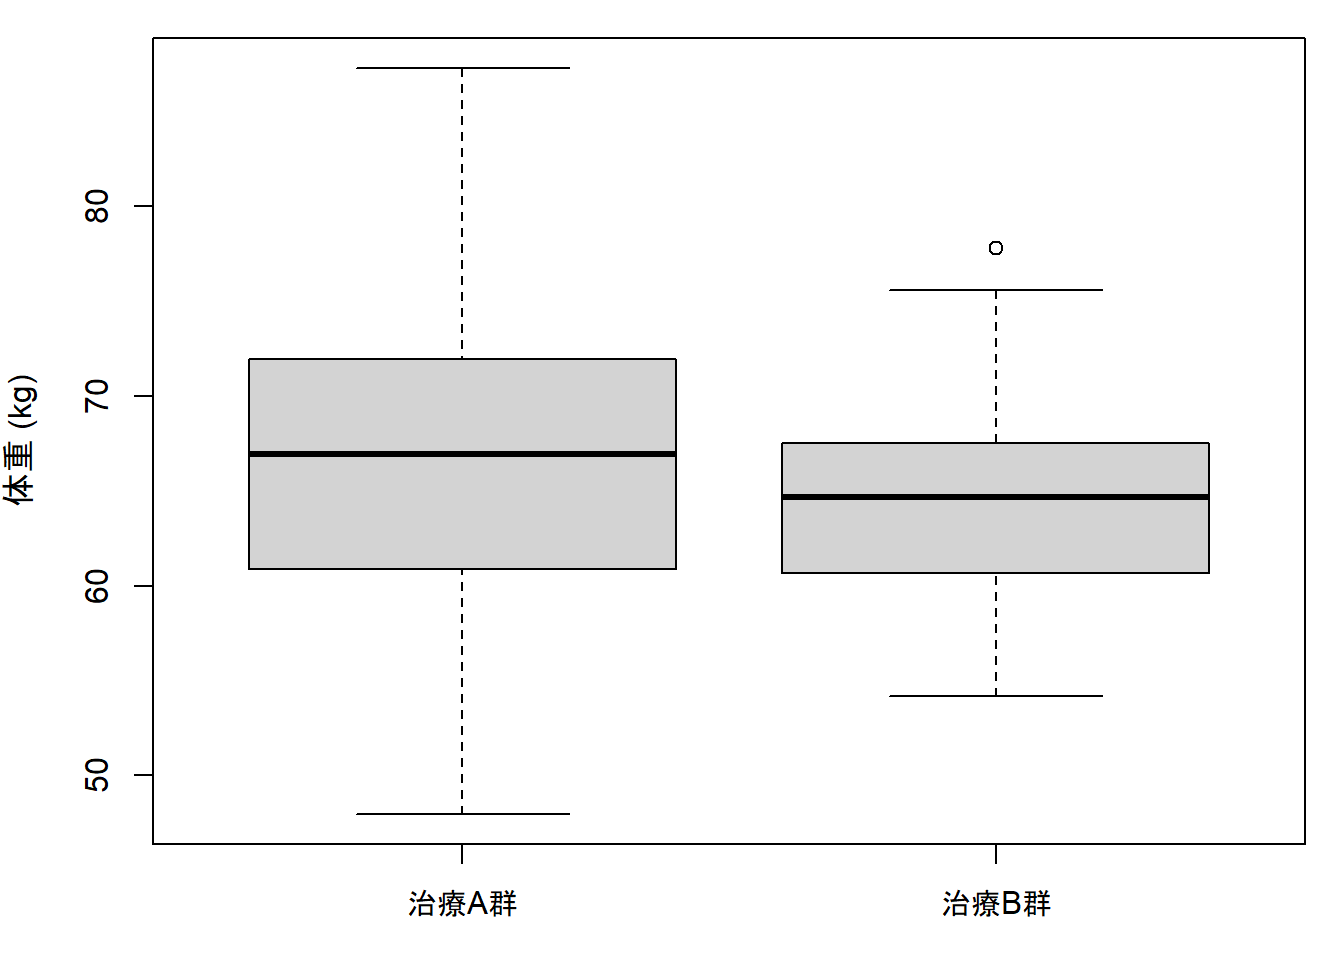
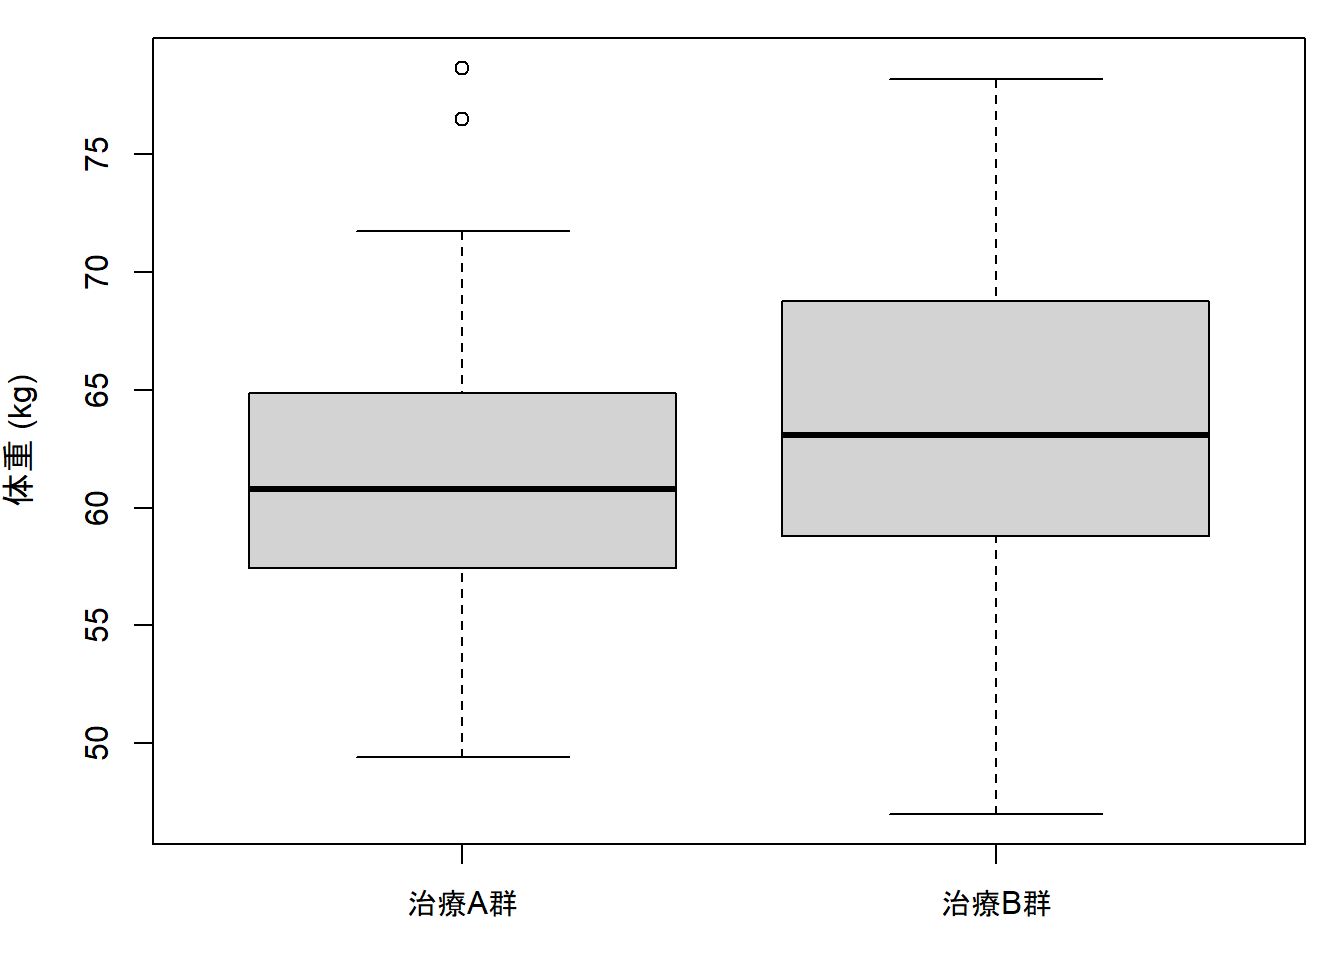
Built site for gh-pages

diff --git a/posts/data/index.html b/posts/data/index.html
@@ -186,6 +186,8 @@ ul.task-list li input[type="checkbox"] {
    
   <ul>
   <li><a href="#コンピュータ演習2" id="toc-コンピュータ演習2" class="nav-link active" data-scroll-target="#コンピュータ演習2">コンピュータ演習2</a></li>
+  <li><a href="#コンピュータ演習3" id="toc-コンピュータ演習3" class="nav-link" data-scroll-target="#コンピュータ演習3">コンピュータ演習3</a></li>
+  <li><a href="#コンピュータ演習4" id="toc-コンピュータ演習4" class="nav-link" data-scroll-target="#コンピュータ演習4">コンピュータ演習4</a></li>
   </ul>
 </nav>
     </div>
@@ -201,14 +203,30 @@ ul.task-list li input[type="checkbox"] {
 <p>データファイル：<a href="./2群の血圧変化量の差.xlsx">2群の血圧変化量の差.xlsx</a></p>
 <div class="cell">
 <div class="cell-output-display">
-<div class="datatables html-widget html-fill-item" id="htmlwidget-c629715e28ba50dc85ac" style="width:100%;height:auto;"></div>
-<script type="application/json" data-for="htmlwidget-c629715e28ba50dc85ac">{"x":{"filter":"top","vertical":false,"filterHTML":"<tr>\n  <td><\/td>\n  <td data-type=\"character\" style=\"vertical-align: top;\">\n    <div class=\"form-group has-feedback\" style=\"margin-bottom: auto;\">\n      <input type=\"search\" placeholder=\"All\" class=\"form-control\" style=\"width: 100%;\"/>\n      <span class=\"glyphicon glyphicon-remove-circle form-control-feedback\"><\/span>\n    <\/div>\n  <\/td>\n  <td data-type=\"character\" style=\"vertical-align: top;\">\n    <div class=\"form-group has-feedback\" style=\"margin-bottom: auto;\">\n      <input type=\"search\" placeholder=\"All\" class=\"form-control\" style=\"width: 100%;\"/>\n      <span class=\"glyphicon glyphicon-remove-circle form-control-feedback\"><\/span>\n    <\/div>\n  <\/td>\n  <td data-type=\"number\" style=\"vertical-align: top;\">\n    <div class=\"form-group has-feedback\" style=\"margin-bottom: auto;\">\n      <input type=\"search\" placeholder=\"All\" class=\"form-control\" style=\"width: 100%;\"/>\n      <span class=\"glyphicon glyphicon-remove-circle form-control-feedback\"><\/span>\n    <\/div>\n    <div style=\"display: none;position: absolute;width: 200px;opacity: 1\">\n      <div data-min=\"-6\" data-max=\"2\"><\/div>\n      <span style=\"float: left;\"><\/span>\n      <span style=\"float: right;\"><\/span>\n    <\/div>\n  <\/td>\n<\/tr>","data":[["1","2","3","4","5","6","7","8","9"],["I1","I2","I3","I4","I5","C1","C2","C3","C4"],["介入群","介入群","介入群","介入群","介入群","対照群","対照群","対照群","対照群"],[-2,-6,-3,-1,-5,2,-1,0,-2]],"container":"<table class=\"display\">\n  <thead>\n    <tr>\n      <th> <\/th>\n      <th>id<\/th>\n      <th>group<\/th>\n      <th>delta<\/th>\n    <\/tr>\n  <\/thead>\n<\/table>","options":{"pageLength":5,"autoWidth":true,"columnDefs":[{"className":"dt-right","targets":3},{"orderable":false,"targets":0},{"name":" ","targets":0},{"name":"id","targets":1},{"name":"group","targets":2},{"name":"delta","targets":3}],"order":[],"orderClasses":false,"orderCellsTop":true,"lengthMenu":[5,10,25,50,100]}},"evals":[],"jsHooks":[]}</script>
+<div class="datatables html-widget html-fill-item" id="htmlwidget-681cce1bd1fee921a76f" style="width:100%;height:auto;"></div>
+<script type="application/json" data-for="htmlwidget-681cce1bd1fee921a76f">{"x":{"filter":"top","vertical":false,"filterHTML":"<tr>\n  <td><\/td>\n  <td data-type=\"character\" style=\"vertical-align: top;\">\n    <div class=\"form-group has-feedback\" style=\"margin-bottom: auto;\">\n      <input type=\"search\" placeholder=\"All\" class=\"form-control\" style=\"width: 100%;\"/>\n      <span class=\"glyphicon glyphicon-remove-circle form-control-feedback\"><\/span>\n    <\/div>\n  <\/td>\n  <td data-type=\"character\" style=\"vertical-align: top;\">\n    <div class=\"form-group has-feedback\" style=\"margin-bottom: auto;\">\n      <input type=\"search\" placeholder=\"All\" class=\"form-control\" style=\"width: 100%;\"/>\n      <span class=\"glyphicon glyphicon-remove-circle form-control-feedback\"><\/span>\n    <\/div>\n  <\/td>\n  <td data-type=\"number\" style=\"vertical-align: top;\">\n    <div class=\"form-group has-feedback\" style=\"margin-bottom: auto;\">\n      <input type=\"search\" placeholder=\"All\" class=\"form-control\" style=\"width: 100%;\"/>\n      <span class=\"glyphicon glyphicon-remove-circle form-control-feedback\"><\/span>\n    <\/div>\n    <div style=\"display: none;position: absolute;width: 200px;opacity: 1\">\n      <div data-min=\"-6\" data-max=\"2\"><\/div>\n      <span style=\"float: left;\"><\/span>\n      <span style=\"float: right;\"><\/span>\n    <\/div>\n  <\/td>\n<\/tr>","data":[["1","2","3","4","5","6","7","8","9"],["I1","I2","I3","I4","I5","C1","C2","C3","C4"],["介入群","介入群","介入群","介入群","介入群","対照群","対照群","対照群","対照群"],[-2,-6,-3,-1,-5,2,-1,0,-2]],"container":"<table class=\"display\">\n  <thead>\n    <tr>\n      <th> <\/th>\n      <th>id<\/th>\n      <th>group<\/th>\n      <th>delta<\/th>\n    <\/tr>\n  <\/thead>\n<\/table>","options":{"pageLength":5,"autoWidth":true,"columnDefs":[{"className":"dt-right","targets":3},{"orderable":false,"targets":0},{"name":" ","targets":0},{"name":"id","targets":1},{"name":"group","targets":2},{"name":"delta","targets":3}],"order":[],"orderClasses":false,"orderCellsTop":true,"lengthMenu":[5,10,25,50,100]}},"evals":[],"jsHooks":[]}</script>
 </div>
 </div>
-<ul>
-<li><p>コンピュータ演習3 <code>回帰分析例データ.xlsx</code></p></li>
-<li><p>コンピュータ演習4 <code>生存時間例データ.xlsx</code></p></li>
-</ul>
+</section>
+<section id="コンピュータ演習3" class="level1">
+<h1>コンピュータ演習3</h1>
+<p>データファイル：<a href="./回帰分析例データ.xlsx">回帰分析例データ.xlsx</a></p>
+<div class="cell">
+<div class="cell-output-display">
+<div class="datatables html-widget html-fill-item" id="htmlwidget-64619aa279c014d79339" style="width:100%;height:auto;"></div>
+<script type="application/json" data-for="htmlwidget-64619aa279c014d79339">{"x":{"filter":"top","vertical":false,"filterHTML":"<tr>\n  <td><\/td>\n  <td data-type=\"number\" style=\"vertical-align: top;\">\n    <div class=\"form-group has-feedback\" style=\"margin-bottom: auto;\">\n      <input type=\"search\" placeholder=\"All\" class=\"form-control\" style=\"width: 100%;\"/>\n      <span class=\"glyphicon glyphicon-remove-circle form-control-feedback\"><\/span>\n    <\/div>\n    <div style=\"display: none;position: absolute;width: 200px;opacity: 1\">\n      <div data-min=\"1\" data-max=\"20\"><\/div>\n      <span style=\"float: left;\"><\/span>\n      <span style=\"float: right;\"><\/span>\n    <\/div>\n  <\/td>\n  <td data-type=\"number\" style=\"vertical-align: top;\">\n    <div class=\"form-group has-feedback\" style=\"margin-bottom: auto;\">\n      <input type=\"search\" placeholder=\"All\" class=\"form-control\" style=\"width: 100%;\"/>\n      <span class=\"glyphicon glyphicon-remove-circle form-control-feedback\"><\/span>\n    <\/div>\n    <div style=\"display: none;position: absolute;width: 200px;opacity: 1\">\n      <div data-min=\"-26\" data-max=\"0\"><\/div>\n      <span style=\"float: left;\"><\/span>\n      <span style=\"float: right;\"><\/span>\n    <\/div>\n  <\/td>\n  <td data-type=\"character\" style=\"vertical-align: top;\">\n    <div class=\"form-group has-feedback\" style=\"margin-bottom: auto;\">\n      <input type=\"search\" placeholder=\"All\" class=\"form-control\" style=\"width: 100%;\"/>\n      <span class=\"glyphicon glyphicon-remove-circle form-control-feedback\"><\/span>\n    <\/div>\n  <\/td>\n  <td data-type=\"number\" style=\"vertical-align: top;\">\n    <div class=\"form-group has-feedback\" style=\"margin-bottom: auto;\">\n      <input type=\"search\" placeholder=\"All\" class=\"form-control\" style=\"width: 100%;\"/>\n      <span class=\"glyphicon glyphicon-remove-circle form-control-feedback\"><\/span>\n    <\/div>\n    <div style=\"display: none;position: absolute;width: 200px;opacity: 1\">\n      <div data-min=\"43\" data-max=\"79\"><\/div>\n      <span style=\"float: left;\"><\/span>\n      <span style=\"float: right;\"><\/span>\n    <\/div>\n  <\/td>\n  <td data-type=\"character\" style=\"vertical-align: top;\">\n    <div class=\"form-group has-feedback\" style=\"margin-bottom: auto;\">\n      <input type=\"search\" placeholder=\"All\" class=\"form-control\" style=\"width: 100%;\"/>\n      <span class=\"glyphicon glyphicon-remove-circle form-control-feedback\"><\/span>\n    <\/div>\n  <\/td>\n  <td data-type=\"character\" style=\"vertical-align: top;\">\n    <div class=\"form-group has-feedback\" style=\"margin-bottom: auto;\">\n      <input type=\"search\" placeholder=\"All\" class=\"form-control\" style=\"width: 100%;\"/>\n      <span class=\"glyphicon glyphicon-remove-circle form-control-feedback\"><\/span>\n    <\/div>\n  <\/td>\n<\/tr>","data":[["1","2","3","4","5","6","7","8","9","10","11","12","13","14","15","16","17","18","19","20"],[1,2,3,4,5,6,7,8,9,10,11,12,13,14,15,16,17,18,19,20],[-23,-15,-15,-12,-13,-18,0,-18,-2,-24,-26,-16,-16,-4,-18,-7,-23,-10,-15,-16],["対照群","対照群","対照群","対照群","対照群","対照群","対照群","対照群","対照群","対照群","試験群","試験群","試験群","試験群","試験群","試験群","試験群","試験群","試験群","試験群"],[44,60,55,57,52,46,76,49,79,46,43,56,62,75,49,77,50,73,64,57],["15以上","15以上","15以上","15未満","15未満","15以上","15未満","15以上","15未満","15以上","15以上","15以上","15以上","15未満","15以上","15未満","15以上","15未満","15以上","15以上"],["50歳未満","60歳以上","50-60","50-60","50-60","50歳未満","60歳以上","50歳未満","60歳以上","50歳未満","50歳未満","50-60","60歳以上","60歳以上","50歳未満","60歳以上","50-60","60歳以上","60歳以上","50-60"]],"container":"<table class=\"display\">\n  <thead>\n    <tr>\n      <th> <\/th>\n      <th>ID<\/th>\n      <th>血圧変化量<\/th>\n      <th>群<\/th>\n      <th>年齢<\/th>\n      <th>血圧変化量二値化<\/th>\n      <th>年齢カテゴリ化<\/th>\n    <\/tr>\n  <\/thead>\n<\/table>","options":{"pageLength":5,"autoWidth":true,"columnDefs":[{"className":"dt-right","targets":[1,2,4]},{"orderable":false,"targets":0},{"name":" ","targets":0},{"name":"ID","targets":1},{"name":"血圧変化量","targets":2},{"name":"群","targets":3},{"name":"年齢","targets":4},{"name":"血圧変化量二値化","targets":5},{"name":"年齢カテゴリ化","targets":6}],"order":[],"orderClasses":false,"orderCellsTop":true,"lengthMenu":[5,10,25,50,100]}},"evals":[],"jsHooks":[]}</script>
+</div>
+</div>
+</section>
+<section id="コンピュータ演習4" class="level1">
+<h1>コンピュータ演習4</h1>
+<p>データファイル：<a href="./生存時間例データ.xlsx">生存時間例データ.xlsx</a></p>
+<div class="cell">
+<div class="cell-output-display">
+<div class="datatables html-widget html-fill-item" id="htmlwidget-fe29438d1b3bd26accb2" style="width:100%;height:auto;"></div>
+<script type="application/json" data-for="htmlwidget-fe29438d1b3bd26accb2">{"x":{"filter":"top","vertical":false,"filterHTML":"<tr>\n  <td><\/td>\n  <td data-type=\"number\" style=\"vertical-align: top;\">\n    <div class=\"form-group has-feedback\" style=\"margin-bottom: auto;\">\n      <input type=\"search\" placeholder=\"All\" class=\"form-control\" style=\"width: 100%;\"/>\n      <span class=\"glyphicon glyphicon-remove-circle form-control-feedback\"><\/span>\n    <\/div>\n    <div style=\"display: none;position: absolute;width: 200px;opacity: 1\">\n      <div data-min=\"8\" data-max=\"120\"><\/div>\n      <span style=\"float: left;\"><\/span>\n      <span style=\"float: right;\"><\/span>\n    <\/div>\n  <\/td>\n  <td data-type=\"number\" style=\"vertical-align: top;\">\n    <div class=\"form-group has-feedback\" style=\"margin-bottom: auto;\">\n      <input type=\"search\" placeholder=\"All\" class=\"form-control\" style=\"width: 100%;\"/>\n      <span class=\"glyphicon glyphicon-remove-circle form-control-feedback\"><\/span>\n    <\/div>\n    <div style=\"display: none;position: absolute;width: 200px;opacity: 1\">\n      <div data-min=\"0\" data-max=\"1\"><\/div>\n      <span style=\"float: left;\"><\/span>\n      <span style=\"float: right;\"><\/span>\n    <\/div>\n  <\/td>\n  <td data-type=\"character\" style=\"vertical-align: top;\">\n    <div class=\"form-group has-feedback\" style=\"margin-bottom: auto;\">\n      <input type=\"search\" placeholder=\"All\" class=\"form-control\" style=\"width: 100%;\"/>\n      <span class=\"glyphicon glyphicon-remove-circle form-control-feedback\"><\/span>\n    <\/div>\n  <\/td>\n<\/tr>","data":[["1","2","3","4","5","6","7","8","9"],[14,30,44,76,120,8,11,15,28],[1,1,0,1,0,1,0,1,1],["試験","試験","試験","試験","試験","対照","対照","対照","対照"]],"container":"<table class=\"display\">\n  <thead>\n    <tr>\n      <th> <\/th>\n      <th>生存時間<\/th>\n      <th>打ち切り<\/th>\n      <th>群<\/th>\n    <\/tr>\n  <\/thead>\n<\/table>","options":{"pageLength":5,"autoWidth":true,"columnDefs":[{"className":"dt-right","targets":[1,2]},{"orderable":false,"targets":0},{"name":" ","targets":0},{"name":"生存時間","targets":1},{"name":"打ち切り","targets":2},{"name":"群","targets":3}],"order":[],"orderClasses":false,"orderCellsTop":true,"lengthMenu":[5,10,25,50,100]}},"evals":[],"jsHooks":[]}</script>
+</div>
+</div>
 
 
 </section>

diff --git a/posts/post-with-code/index.html b/posts/post-with-code/index.html
@@ -6,10 +6,10 @@
 
 <meta name="viewport" content="width=device-width, initial-scale=1.0, user-scalable=yes">
 
-<meta name="author" content="Harlow Malloc">
-<meta name="dcterms.date" content="2026-05-07">
+<meta name="author" content="川口淳">
+<meta name="dcterms.date" content="2026-08-07">
 
-<title>Post With Code – サポートページ</title>
+<title>R Code – サポートページ</title>
 <style>
 code{white-space: pre-wrap;}
 span.smallcaps{font-variant: small-caps;}
@@ -154,7 +154,7 @@ pre > code.sourceCode > span > a:first-child::before { text-decoration: underlin
 <header id="title-block-header" class="quarto-title-block default page-columns page-full">
   <div class="quarto-title-banner page-columns page-full">
     <div class="quarto-title column-body">
-      <h1 class="title">Post With Code</h1>
+      <h1 class="title">R Code</h1>
                                 <div class="quarto-categories">
                 <div class="quarto-category">news</div>
                 <div class="quarto-category">code</div>
@@ -169,14 +169,14 @@ pre > code.sourceCode > span > a:first-child::before { text-decoration: underlin
       <div>
       <div class="quarto-title-meta-heading">Author</div>
       <div class="quarto-title-meta-contents">
-               <p>Harlow Malloc </p>
+               <p>川口淳 </p>
             </div>
     </div>
       
       <div>
       <div class="quarto-title-meta-heading">Published</div>
       <div class="quarto-title-meta-contents">
-        <p class="date">2026-05-07</p>
+        <p class="date">2026-08-07</p>
       </div>
     </div>
     
@@ -187,8 +187,14 @@ pre > code.sourceCode > span > a:first-child::before { text-decoration: underlin
   </header><div id="quarto-content" class="quarto-container page-columns page-rows-contents page-layout-article page-navbar">
 <!-- sidebar -->
 <!-- margin-sidebar -->
-    <div id="quarto-margin-sidebar" class="sidebar margin-sidebar zindex-bottom">
-        
+    <div id="quarto-margin-sidebar" class="sidebar margin-sidebar">
+        <nav id="TOC" role="doc-toc" class="toc-active">
+    <h2 id="toc-title">On this page</h2>
+   
+  <ul>
+  <li><a href="#sec-binomial" id="toc-sec-binomial" class="nav-link active" data-scroll-target="#sec-binomial">二値データと二項分布</a></li>
+  </ul>
+</nav>
     </div>
 <!-- main -->
 <main class="content quarto-banner-title-block" id="quarto-document-content">
@@ -197,15 +203,41 @@ pre > code.sourceCode > span > a:first-child::before { text-decoration: underlin
 
 
 
-<p>This is a post with executable code.</p>
+<p>本書で使用したRコードを共有します。</p>
+<section id="sec-binomial" class="level1">
+<h1>二値データと二項分布</h1>
 <div class="cell">
-<div class="code-copy-outer-scaffold"><div class="sourceCode cell-code" id="cb1"><pre class="sourceCode r code-with-copy"><code class="sourceCode r"><span id="cb1-1"><a href="#cb1-1" aria-hidden="true" tabindex="-1"></a><span class="dv">1</span> <span class="sc">+</span> <span class="dv">1</span></span></code></pre></div><button title="Copy to Clipboard" class="code-copy-button"><i class="bi"></i></button></div>
+<div class="code-copy-outer-scaffold"><div class="sourceCode cell-code" id="cb1"><pre class="sourceCode r code-with-copy"><code class="sourceCode r"><span id="cb1-1"><a href="#cb1-1" aria-hidden="true" tabindex="-1"></a><span class="do">## ==== パラメータ設定 ====</span></span>
+<span id="cb1-2"><a href="#cb1-2" aria-hidden="true" tabindex="-1"></a><span class="fu">set.seed</span>(<span class="dv">123</span>)</span>
+<span id="cb1-3"><a href="#cb1-3" aria-hidden="true" tabindex="-1"></a>p <span class="ot">&lt;-</span> <span class="fl">0.4</span>       <span class="co"># 母比率</span></span>
+<span id="cb1-4"><a href="#cb1-4" aria-hidden="true" tabindex="-1"></a>n <span class="ot">&lt;-</span> <span class="dv">6</span>          <span class="co"># 標本サイズ</span></span>
+<span id="cb1-5"><a href="#cb1-5" aria-hidden="true" tabindex="-1"></a>B <span class="ot">&lt;-</span> <span class="dv">10000</span>      <span class="co"># シミュレーション回数</span></span>
+<span id="cb1-6"><a href="#cb1-6" aria-hidden="true" tabindex="-1"></a></span>
+<span id="cb1-7"><a href="#cb1-7" aria-hidden="true" tabindex="-1"></a><span class="do">## ==== シミュレーション ====</span></span>
+<span id="cb1-8"><a href="#cb1-8" aria-hidden="true" tabindex="-1"></a>x <span class="ot">&lt;-</span> <span class="fu">rbinom</span>(B, <span class="at">size =</span> n, <span class="at">prob =</span> p)</span>
+<span id="cb1-9"><a href="#cb1-9" aria-hidden="true" tabindex="-1"></a></span>
+<span id="cb1-10"><a href="#cb1-10" aria-hidden="true" tabindex="-1"></a><span class="do">## ==== 集計（有病者数・標本比率・度数）====</span></span>
+<span id="cb1-11"><a href="#cb1-11" aria-hidden="true" tabindex="-1"></a>k_vals <span class="ot">&lt;-</span> <span class="dv">0</span><span class="sc">:</span>n</span>
+<span id="cb1-12"><a href="#cb1-12" aria-hidden="true" tabindex="-1"></a>freq   <span class="ot">&lt;-</span> <span class="fu">tabulate</span>(x <span class="sc">+</span> <span class="dv">1</span>, <span class="at">nbins =</span> n <span class="sc">+</span> <span class="dv">1</span>)</span>
+<span id="cb1-13"><a href="#cb1-13" aria-hidden="true" tabindex="-1"></a></span>
+<span id="cb1-14"><a href="#cb1-14" aria-hidden="true" tabindex="-1"></a>res <span class="ot">&lt;-</span> <span class="fu">data.frame</span>(有病者数 <span class="ot">=</span> k_vals, 標本比率 <span class="ot">=</span> <span class="fu">round</span>(k_vals <span class="sc">/</span> n, <span class="dv">2</span>), 度数 <span class="ot">=</span> <span class="fu">as.integer</span>(freq),</span>
+<span id="cb1-15"><a href="#cb1-15" aria-hidden="true" tabindex="-1"></a>  <span class="at">row.names =</span> <span class="cn">NULL</span>, <span class="at">check.names =</span> <span class="cn">FALSE</span></span>
+<span id="cb1-16"><a href="#cb1-16" aria-hidden="true" tabindex="-1"></a>)</span>
+<span id="cb1-17"><a href="#cb1-17" aria-hidden="true" tabindex="-1"></a>res</span></code></pre></div><button title="Copy to Clipboard" class="code-copy-button"><i class="bi"></i></button></div>
 <div class="cell-output cell-output-stdout">
-<pre><code>[1] 2</code></pre>
+<pre><code>  有病者数 標本比率 度数
+1        0     0.00  487
+2        1     0.17 1835
+3        2     0.33 3169
+4        3     0.50 2766
+5        4     0.67 1369
+6        5     0.83  336
+7        6     1.00   38</code></pre>
 </div>
 </div>
 
 
+</section>
 
 </main> <!-- /main -->
 <script id="quarto-html-after-body" type="application/javascript">

diff --git a/index.html b/index.html
@@ -221,7 +221,7 @@ window.Quarto = {
 
 <div class="quarto-listing quarto-listing-container-default" id="listing-listing">
 <div class="list quarto-listing-default">
-<div class="quarto-post image-right" data-index="0" data-categories="bmV3cyUyQ2NvZGUlMkNhbmFseXNpcw==" data-listing-date-sort="1786028400000" data-listing-file-modified-sort="1786086350557" data-listing-date-modified-sort="NaN" data-listing-reading-time-sort="1" data-listing-word-count-sort="93">
+<div class="quarto-post image-right" data-index="0" data-categories="bmV3cyUyQ2NvZGUlMkNhbmFseXNpcw==" data-listing-date-sort="1786028400000" data-listing-file-modified-sort="1786087154952" data-listing-date-modified-sort="NaN" data-listing-reading-time-sort="1" data-listing-word-count-sort="93">
 <div class="thumbnail"><a href="./posts/data/index.html" class="no-external">
 
 <div class="listing-item-img-placeholder card-img-top" >&nbsp;</div>
@@ -289,7 +289,7 @@ Aug 7, 2026
 </a>
 </div>
 </div>
-<div class="quarto-post image-right" data-index="2" data-categories="bmV3cyUyQ2NvZGUlMkNhbmFseXNpcw==" data-listing-date-sort="1786028400000" data-listing-file-modified-sort="1786085154608" data-listing-date-modified-sort="NaN" data-listing-reading-time-sort="1" data-listing-word-count-sort="82">
+<div class="quarto-post image-right" data-index="2" data-categories="bmV3cyUyQ2NvZGUlMkNhbmFseXNpcw==" data-listing-date-sort="1786028400000" data-listing-file-modified-sort="1786087140593" data-listing-date-modified-sort="NaN" data-listing-reading-time-sort="1" data-listing-word-count-sort="82">
 <div class="thumbnail"><a href="./posts/post-with-code/index.html" class="no-external">
 
 <img loading="lazy" src="./posts/post-with-code/R_logo_2000.png" class="thumbnail-image">
@@ -309,7 +309,7 @@ Aug 7, 2026
 
 </div>
 <div class="delink listing-description"><a href="./posts/post-with-code/index.html" class="no-external">
-This is a post with executable code.
+本書で使用したRコードを共有します。
 </a></div>
 </div>
 <div class="metadata">
